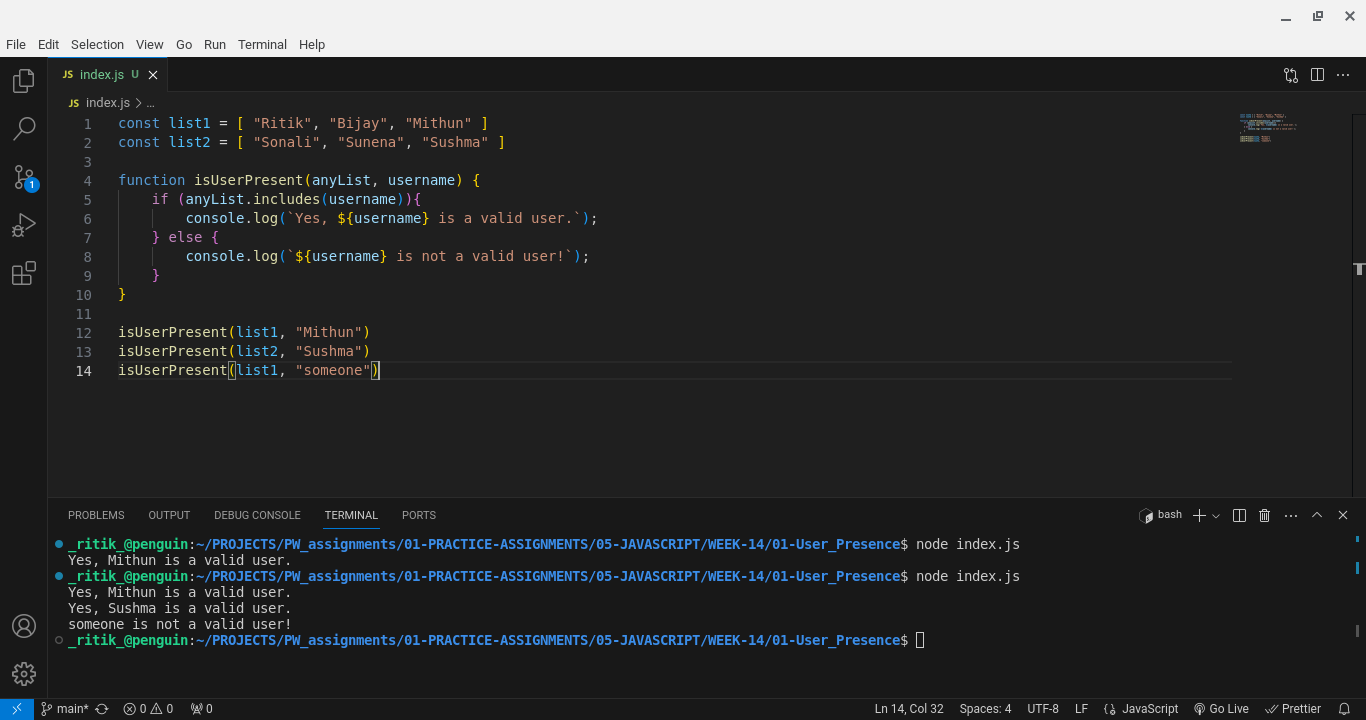
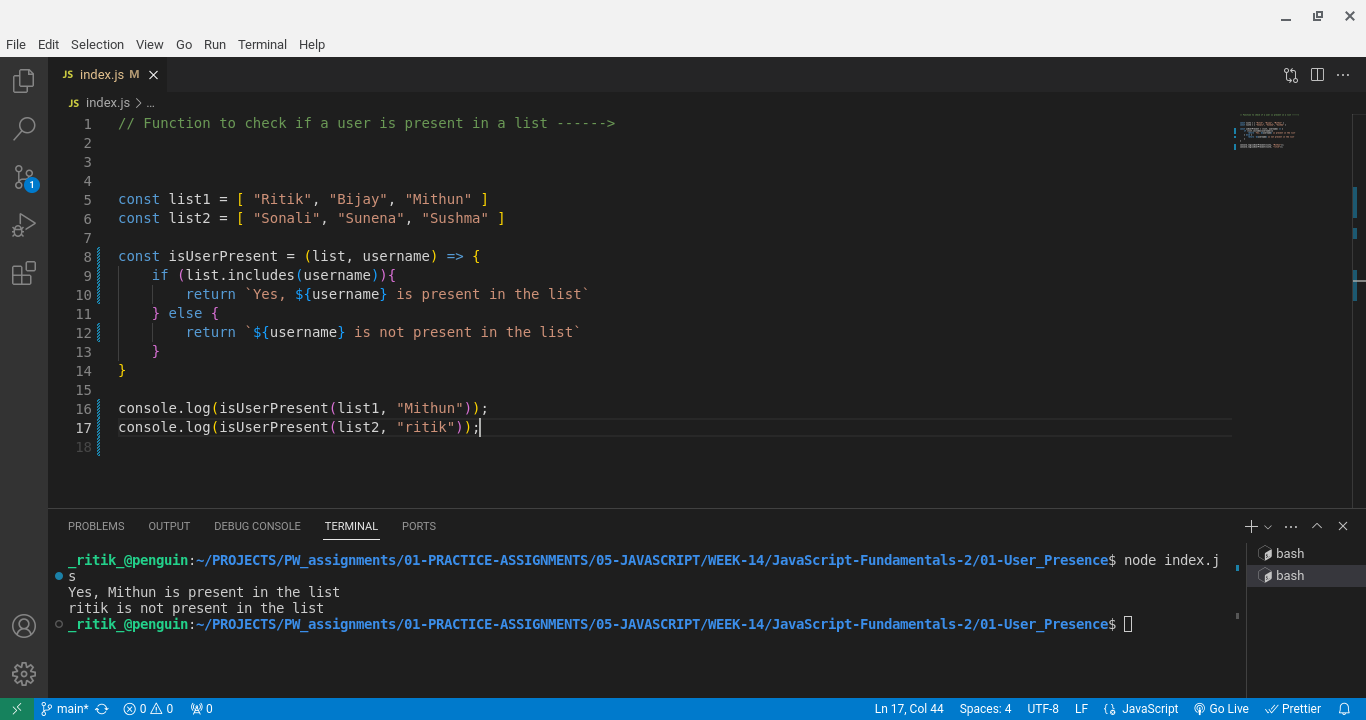
modified the code

diff --git a/01-PRACTICE-ASSIGNMENTS/05-JAVASCRIPT/WEEK-14/JavaScript-Fundamentals-2/01-User_Presence/index.js b/01-PRACTICE-ASSIGNMENTS/05-JAVASCRIPT/WEEK-14/JavaScript-Fundamentals-2/01-User_Presence/index.js
@@ -5,14 +5,13 @@
 const list1 = [ "Ritik", "Bijay", "Mithun" ]
 const list2 = [ "Sonali", "Sunena", "Sushma" ]
 
-function isUserPresent(anyList, username) {
-    if (anyList.includes(username)){
-        console.log(`Yes, ${username} is a valid user.`);
+const isUserPresent = (list, username) => {
+    if (list.includes(username)){
+        return `Yes, ${username} is present in the list`
     } else {
-        console.log(`${username} is not a valid user!`);
+        return `${username} is not present in the list`
     }
 }
 
-isUserPresent(list1, "Mithun")
-isUserPresent(list2, "Sushma")
-isUserPresent(list1, "someone")
+console.log(isUserPresent(list1, "Mithun"));
+console.log(isUserPresent(list2, "Ritik"));
